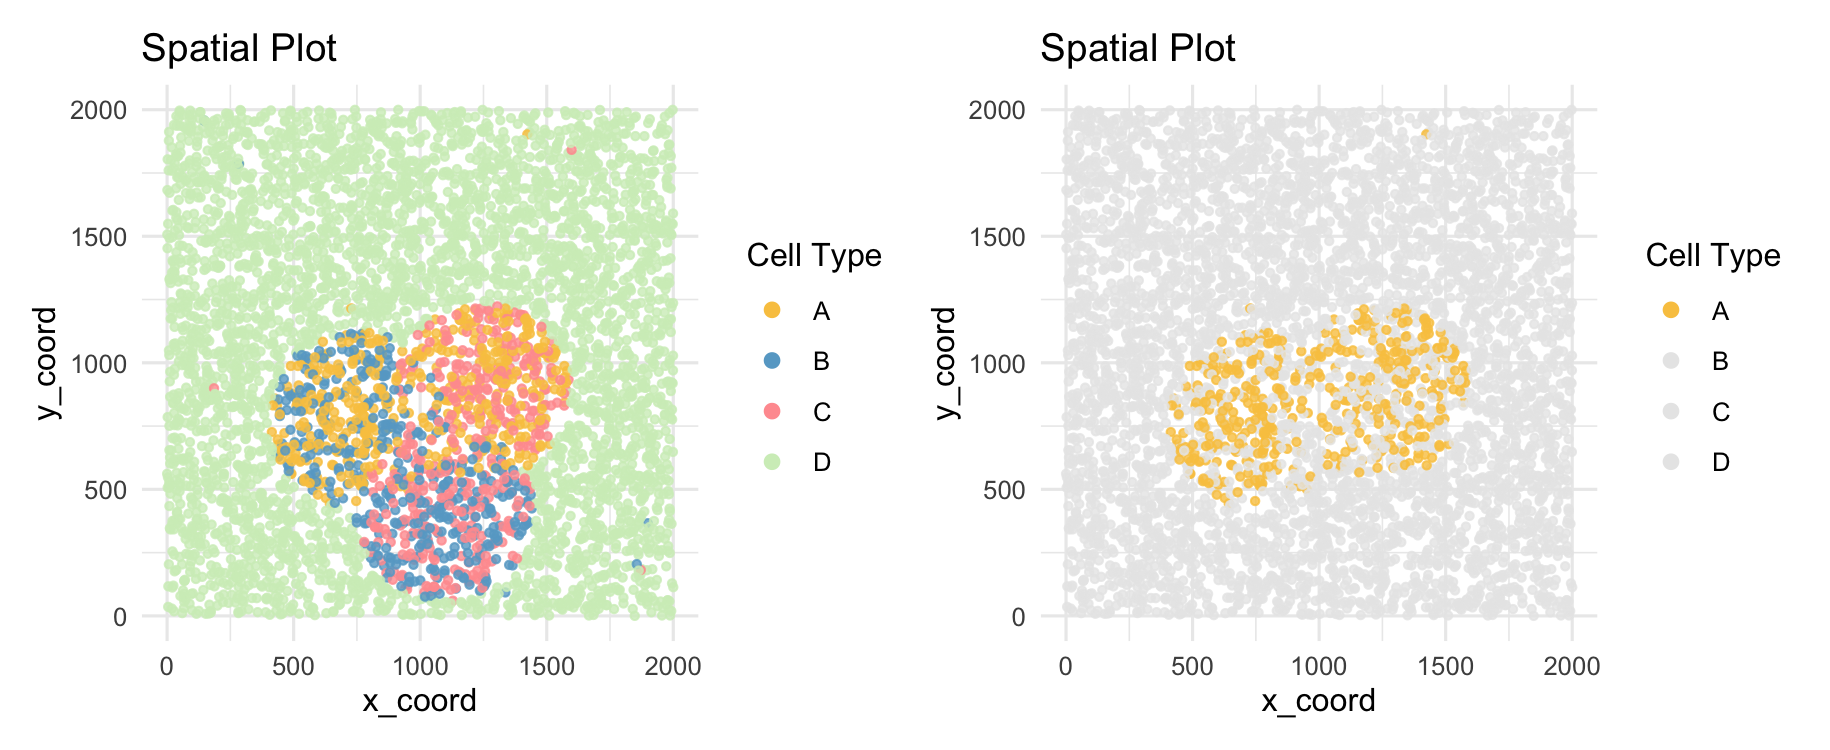
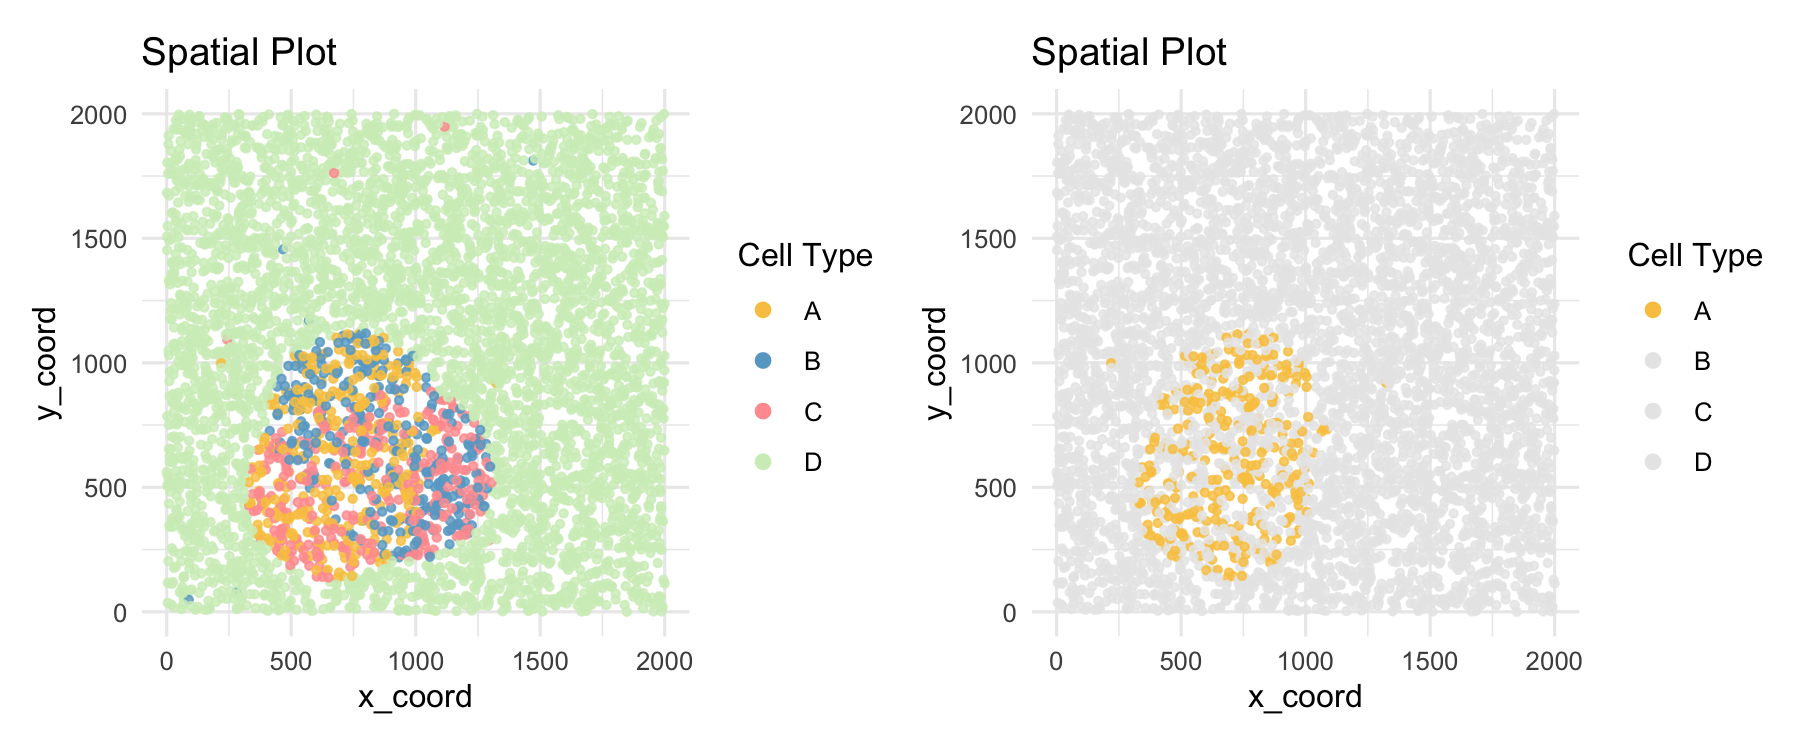
tutorial

diff --git a/README.md b/README.md
@@ -29,12 +29,14 @@ library(MANGO)
 ## Quick Start
 
 ### Visualization
+
+Visualize a simulated section
 ```r
 library(MANGO)
 library(patchwork)
 
 # generate simulation data
-sim <- generate_alternative_circle_simulation(num_cells = 5000, circle_radius = 350)
+sim <- generate_alternative_circle_simulation(num_cells = 5000, circle_radius = 350, circle_distances = 300)
 
 # build SingleCellExperiment object
 sim_sce <- build_sce(sim)
@@ -42,7 +44,7 @@ sim_sce <- build_sce(sim)
 p1 <- Plot_Basic(sim_sce, type_column = "cell_type", coords = c("x_coord", "y_coord"), point_size = 1)
 p2 <- Plot_Basic(sim_sce, type_column = "cell_type", highlight_celltypes = "A", coords = c("x_coord", "y_coord"), point_size = 1)
 
-p1 + p2 + plot_layout(axis_titles = "collect")
+p1 + p2
 ```
 <p align="center">
   <img src="man/figures/simulation_viz.png" alt="simulation_viz" width="800">
